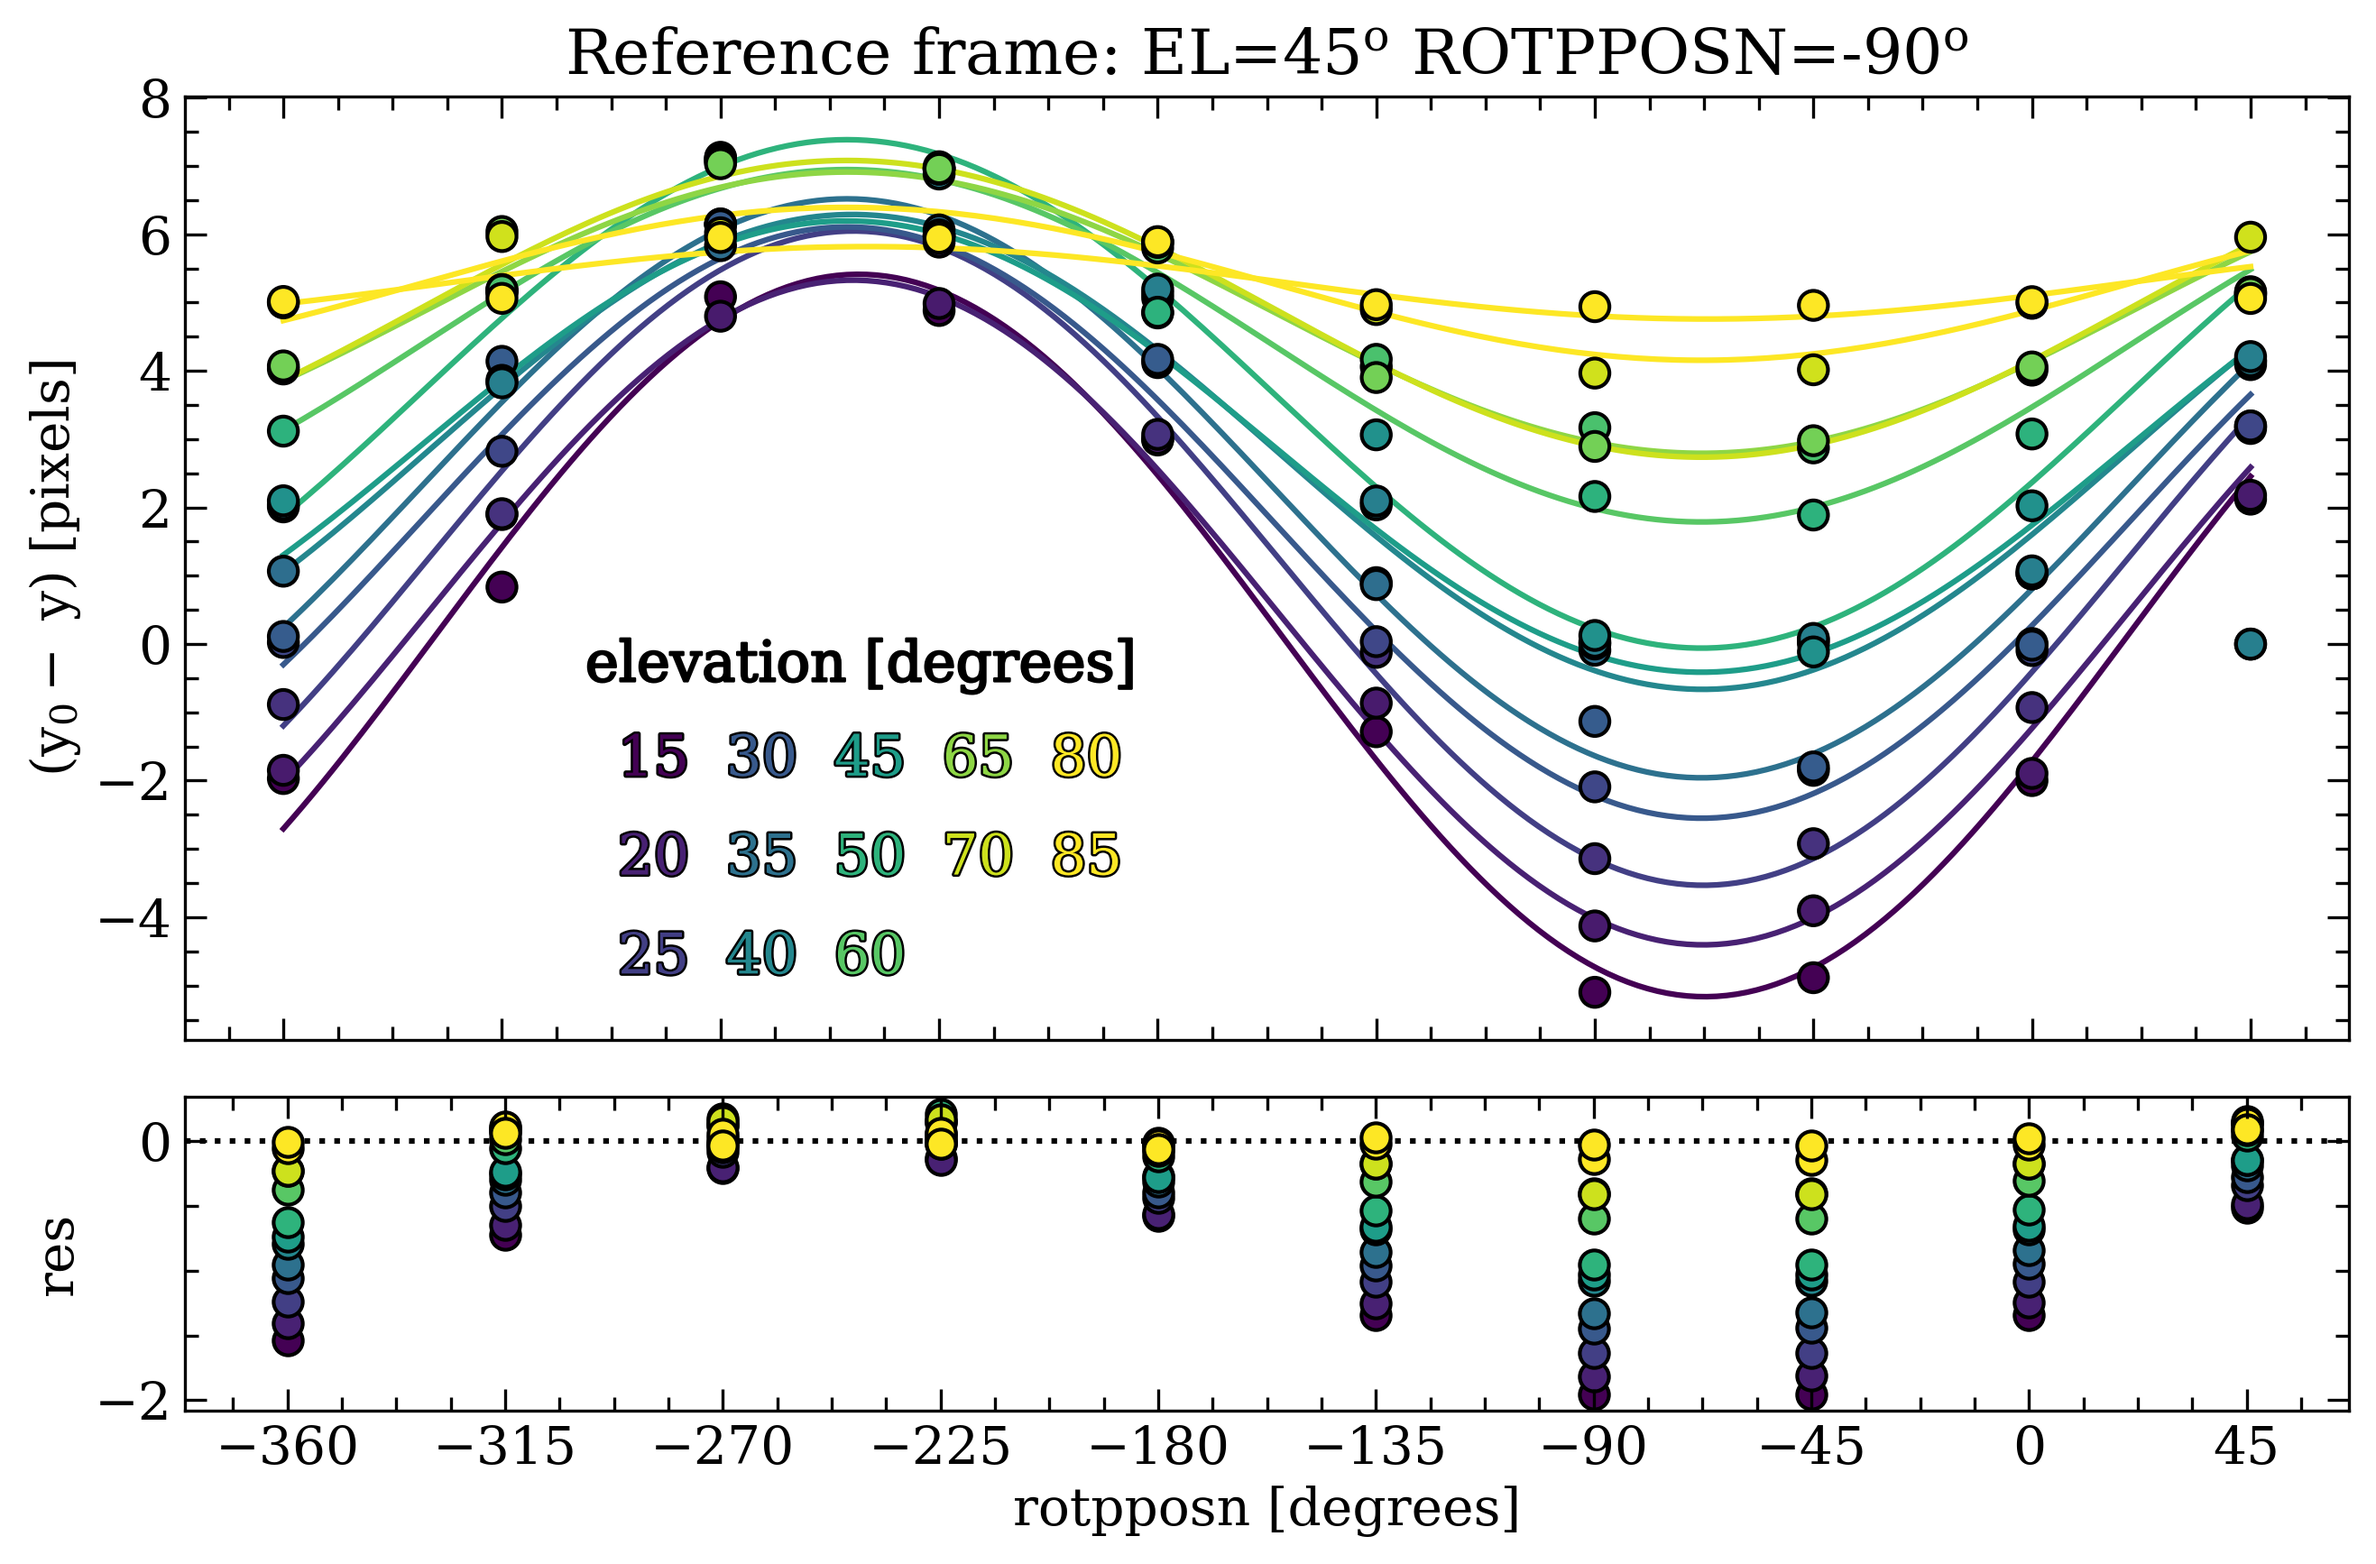
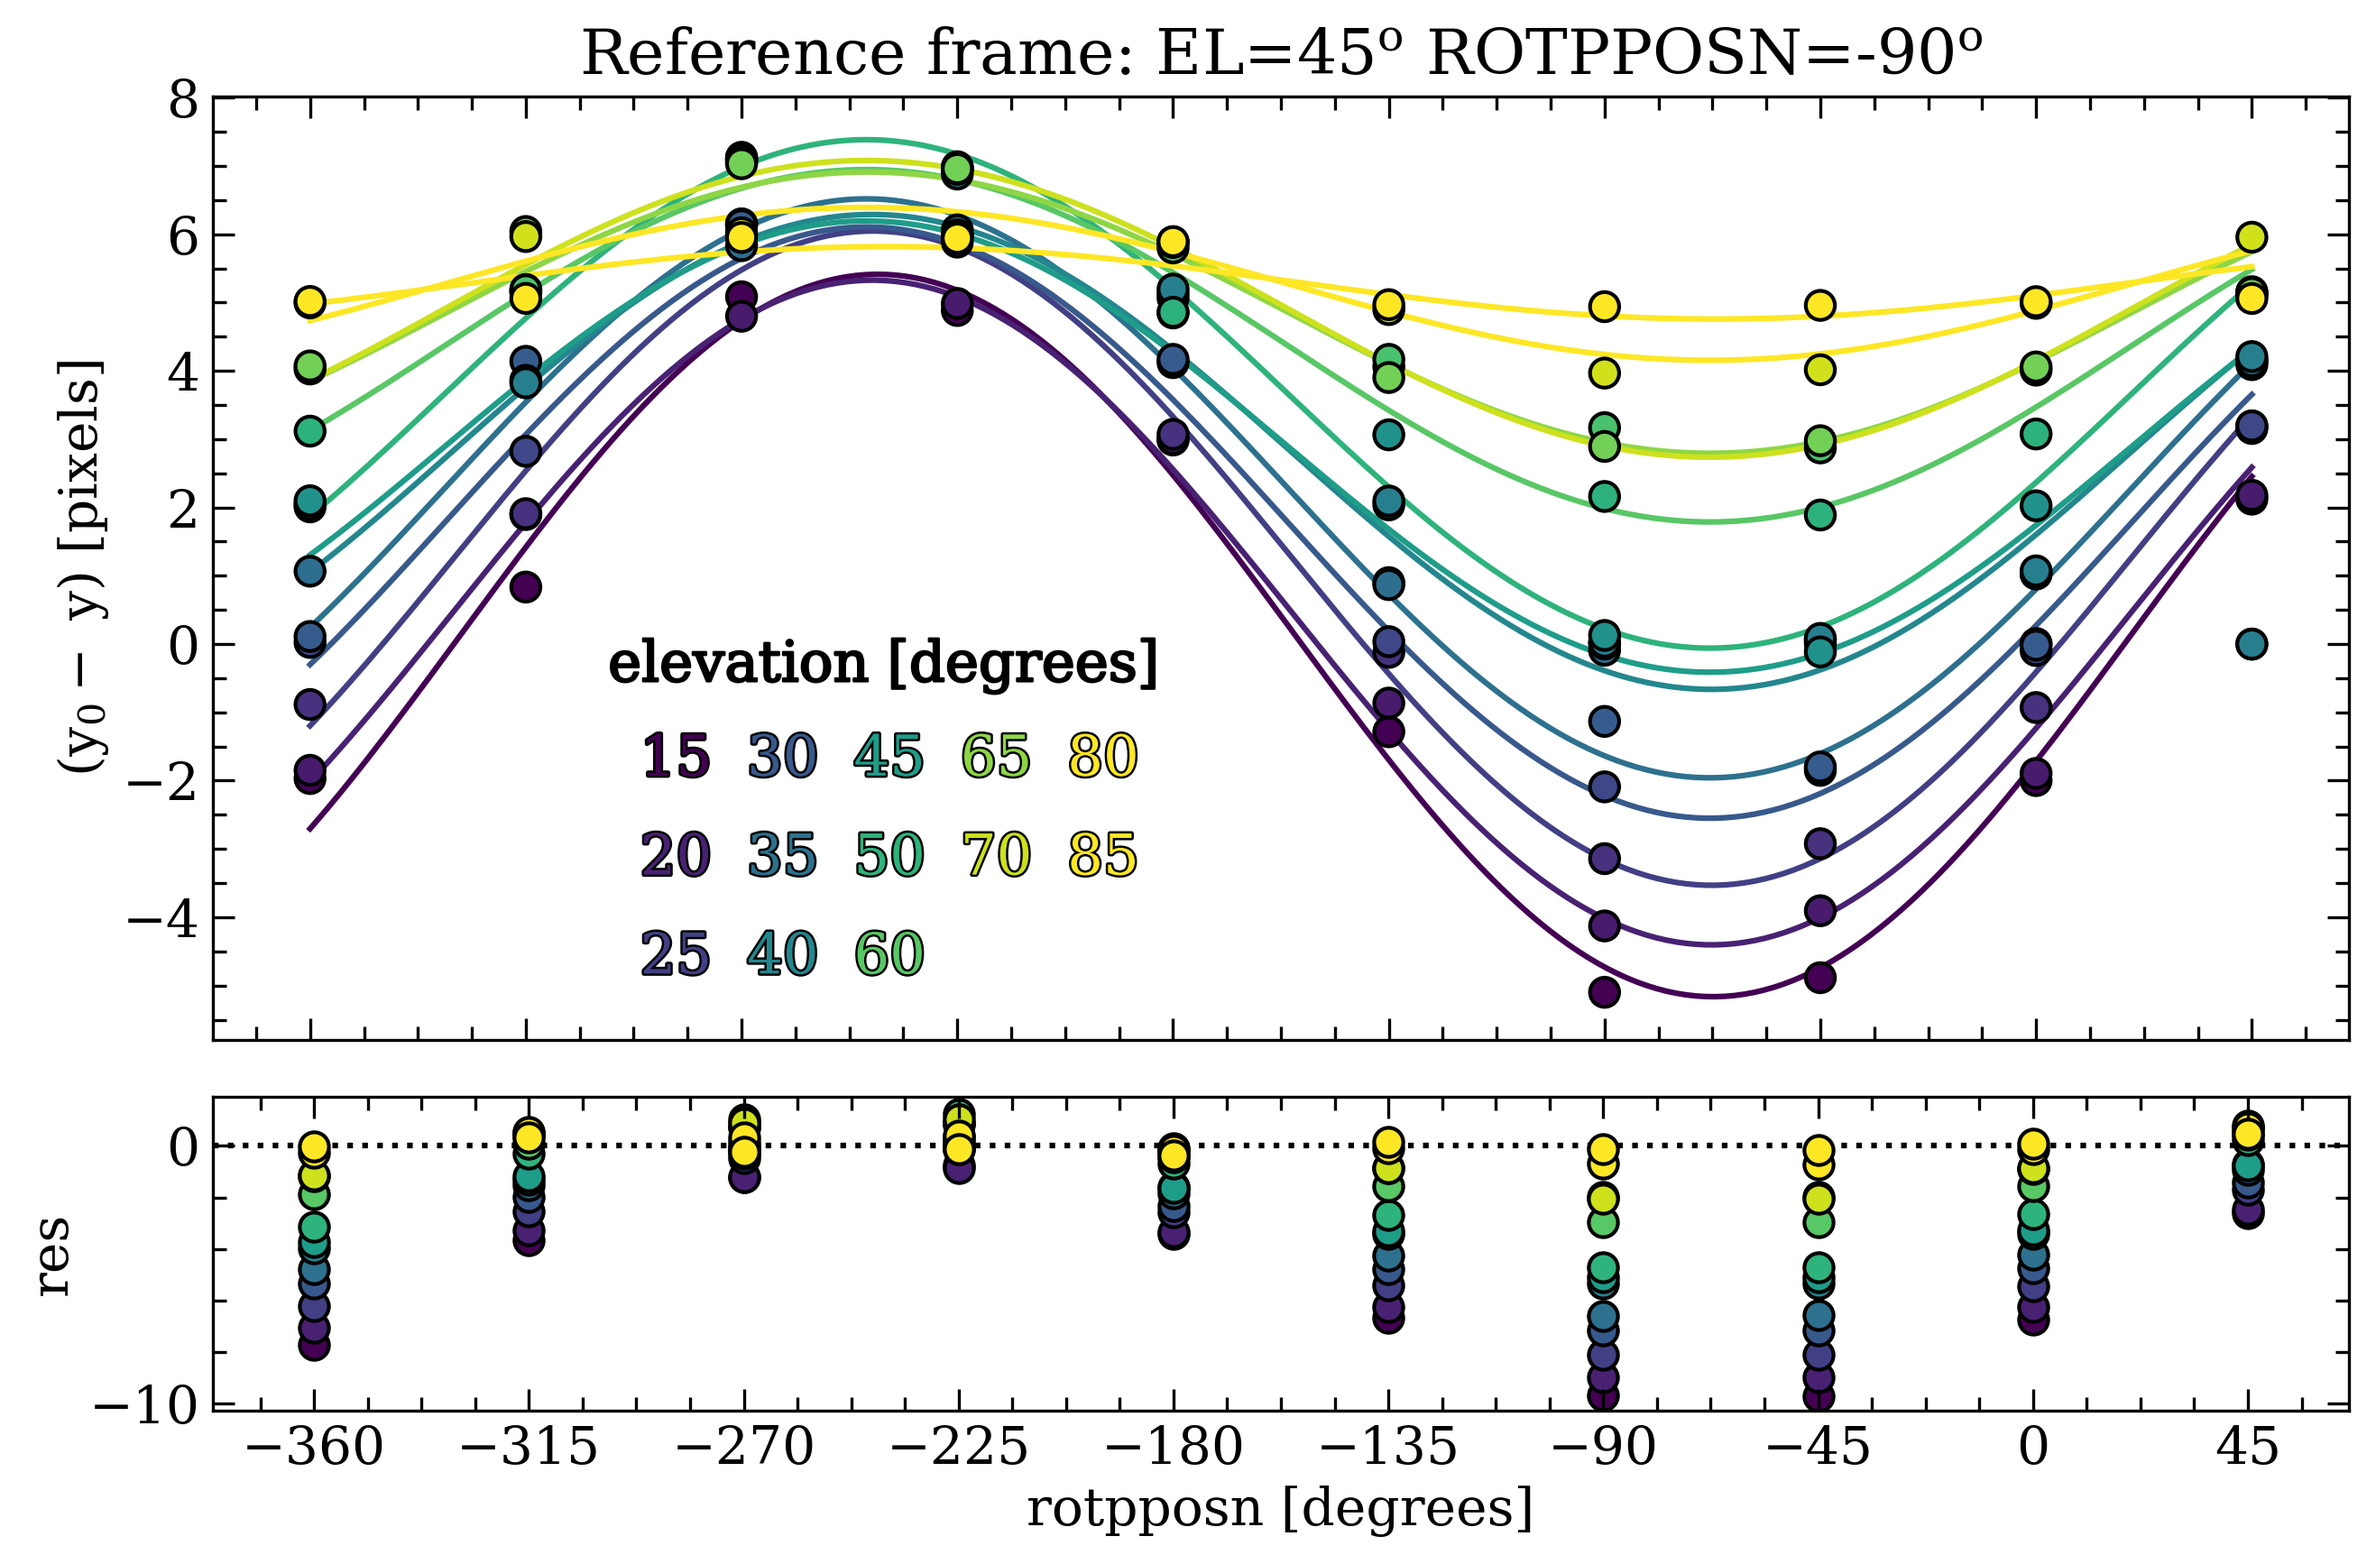
Fitting data.

diff --git a/engineering_time/fit_flexure.py b/engineering_time/fit_flexure.py
@@ -75,7 +75,7 @@ for e in range(len(elevations)):
 	coeffs = [fits.loc[e,j] for j in ['A','B','C']]
 	
 	line_fit = fit(rots,elevations[e],*coeffs)
-	ax.scatter(rots,(line_fit/yvals)-1,color=colors[e],s=60,edgecolor='k')
+	ax.scatter(rots,line_fit-yvals,color=colors[e],s=60,edgecolor='k')
 ax.axhline(0,ls=':',color='k',zorder=0)
 
 # labels
